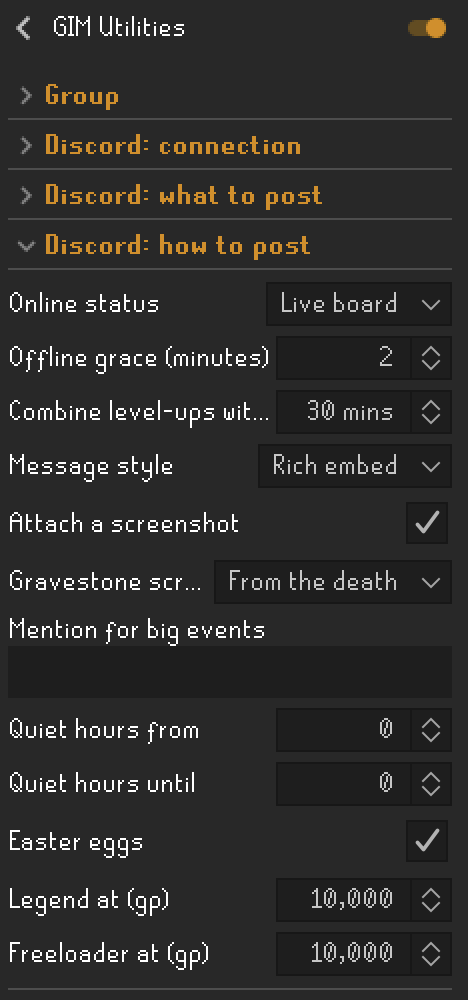
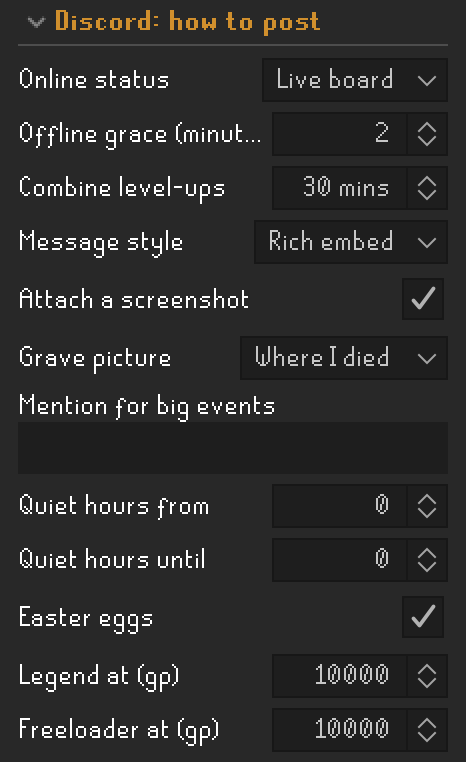
feat(config): open on Group only; Offline grace name fits
Every section but Group starts closed so a first install shows all eight
section names. Offline grace drops '(minutes)' from its name and shows mins
in the box (same key and value). New how-to-post screenshot.

Claude-Session: https://claude.ai/code/session_01NyDjiuzzPCoyhrd8yXsFSA

diff --git a/src/main/java/com/vinnyvangogh/groupironman/GroupIronmanConfig.java b/src/main/java/com/vinnyvangogh/groupironman/GroupIronmanConfig.java
@@ -45,6 +45,7 @@ public interface GroupIronmanConfig extends Config
 	String GP_PLAIN = "";
 
 	// ---- The eight sections ----
+	// Every section but Group starts closed, so a first install shows all eight names at a glance (Board 2026-11-11).
 
 	@ConfigSection(name = "Group", description = "Join your group and choose what you share with them. Nothing is"
 		+ " shared until you turn it on, and you only see members' data for what you share yourself.",
@@ -53,25 +54,25 @@ public interface GroupIronmanConfig extends Config
 
 	@ConfigSection(name = "Discord: connection", description = "Where your Discord posts go: the webhooks, and the"
 		+ " name each post shows. Each member's client posts only that member's own events, so nothing is posted"
-		+ " twice.", position = 1)
+		+ " twice.", position = 1, closedByDefault = true)
 	String discordConnectionSection = "sectionDiscordConnection";
 
 	@ConfigSection(name = "Discord: what to post", description = "One switch per event. Each is off until you tick"
-		+ " it.", position = 2)
+		+ " it.", position = 2, closedByDefault = true)
 	String discordEventsSection = "sectionDiscordWhat";
 
 	@ConfigSection(name = "Discord: how to post", description = "How posts look and when they go: online status,"
-		+ " combining level-ups, screenshots, mentions and quiet hours.", position = 3)
+		+ " combining level-ups, screenshots, mentions and quiet hours.", position = 3, closedByDefault = true)
 	String discordHowSection = "sectionDiscordHow";
 
 	@ConfigSection(name = "Discord: daily digest", description = "Tick a category to add a once-a-day summary of it,"
 		+ " sent while you are logged in. Instant posts still go out as set above; the digest never delays"
-		+ " them.", position = 4)
+		+ " them.", position = 4, closedByDefault = true)
 	String digestSection = "sectionDigest";
 
 	@ConfigSection(name = "In-game", description = "Event banners, the group box, world map markers and the ::find"
 		+ " command, and which events show as a banner in game. Members' events need 'Share group events' (or"
-		+ " drops) on, here and on their side.", position = 5)
+		+ " drops) on, here and on their side.", position = 5, closedByDefault = true)
 	String inGameSection = "sectionInGame";
 
 	@ConfigSection(name = "Thresholds", description = "What is big enough to count as an event, for both Discord"
@@ -603,9 +604,10 @@ public interface GroupIronmanConfig extends Config
 	}
 
 	@Range(max = 10)
-	@ConfigItem(keyName = "discordOfflineGrace", name = "Offline grace (minutes)", description = "How long a"
-		+ " logout waits before it is posted. Logging back in within it posts nothing. At most one online and"
-		+ " offline per 10 minutes.", section = discordHowSection, position = 1)
+	@Units(Units.MINUTES)
+	@ConfigItem(keyName = "discordOfflineGrace", name = "Offline grace", description = "Minutes a logout waits"
+		+ " before it is posted. Logging back in within it posts nothing. At most one online and offline per 10"
+		+ " minutes.", section = discordHowSection, position = 1)
 	default int discordOfflineGrace()
 	{
 		return 2;

diff --git a/src/test/java/com/vinnyvangogh/groupironman/ConfigLayoutTest.java b/src/test/java/com/vinnyvangogh/groupironman/ConfigLayoutTest.java
@@ -59,7 +59,9 @@ public class ConfigLayoutTest
 	private static final List<String> SECTION_ORDER = Arrays.asList("Group", "Discord: connection",
 		"Discord: what to post", "Discord: how to post", "Discord: daily digest", "In-game", "Thresholds", "Advanced");
 
-	private static final Set<String> CLOSED = new HashSet<>(Arrays.asList("Thresholds", "Advanced"));
+	/** Every section but Group starts closed, so a first install shows all eight names at once. */
+	private static final Set<String> CLOSED = new HashSet<>(Arrays.asList("Discord: connection",
+		"Discord: what to post", "Discord: how to post", "Discord: daily digest", "In-game", "Thresholds", "Advanced"));
 
 	@Test
 	public void theConfigGroupIsUnchanged()
@@ -82,7 +84,7 @@ public class ConfigLayoutTest
 	}
 
 	@Test
-	public void exactlyEightSectionsInOrderWithOnlyThresholdsAndAdvancedClosed() throws Exception
+	public void exactlyEightSectionsInOrderWithOnlyGroupOpen() throws Exception
 	{
 		List<ConfigSection> sections = new ArrayList<>(sections().values());
 		sections.sort(Comparator.comparingInt(ConfigSection::position));

diff --git a/README.md b/README.md
@@ -72,7 +72,7 @@ to share, and only sees other members' data for what they share themselves.
 - **Settings:** granular opt-in toggles for every feature and sharing
   category, in eight sections: *Group*, *Discord: connection*, *Discord: what
   to post*, *Discord: how to post*, *Discord: daily digest*, *In-game*,
-  *Thresholds* and *Advanced* (the last two start closed). See
+  *Thresholds* and *Advanced* (all but *Group* start closed). See
   [SETUP.md](SETUP.md#settings).
 
   ![Settings panel with its eight sections closed](https://raw.githubusercontent.com/VinnyVanGogh/group-ironman-plugin/main/docs/images/settings-overview.png)

diff --git a/SETUP.md b/SETUP.md
@@ -13,8 +13,8 @@ plugin is, see the [README](README.md).
 
 ## Settings
 
-The settings panel has eight sections, in this order. The last two start
-closed.
+The settings panel has eight sections, in this order. All but Group start
+closed, so a first install shows every section's name at once.
 
 1. **Group**: *Sync with my group*, the *Group key*, what you share (bank,
    group storage changes, stats, inventory and equipment, rune pouch / quiver /

diff --git a/CHANGELOG.md b/CHANGELOG.md
@@ -2,6 +2,13 @@
 
 ## Unreleased
 
+### Settings open on a short list
+
+- Every settings section but *Group* starts closed, so a first install shows
+  all eight section names at once.
+- *Offline grace (minutes)* is now *Offline grace*, with *mins* in the box,
+  so its name is no longer cut off. Same key, same value.
+
 ### Settings names that fit
 
 - Long setting names no longer get cut off with "..." in the settings panel.
